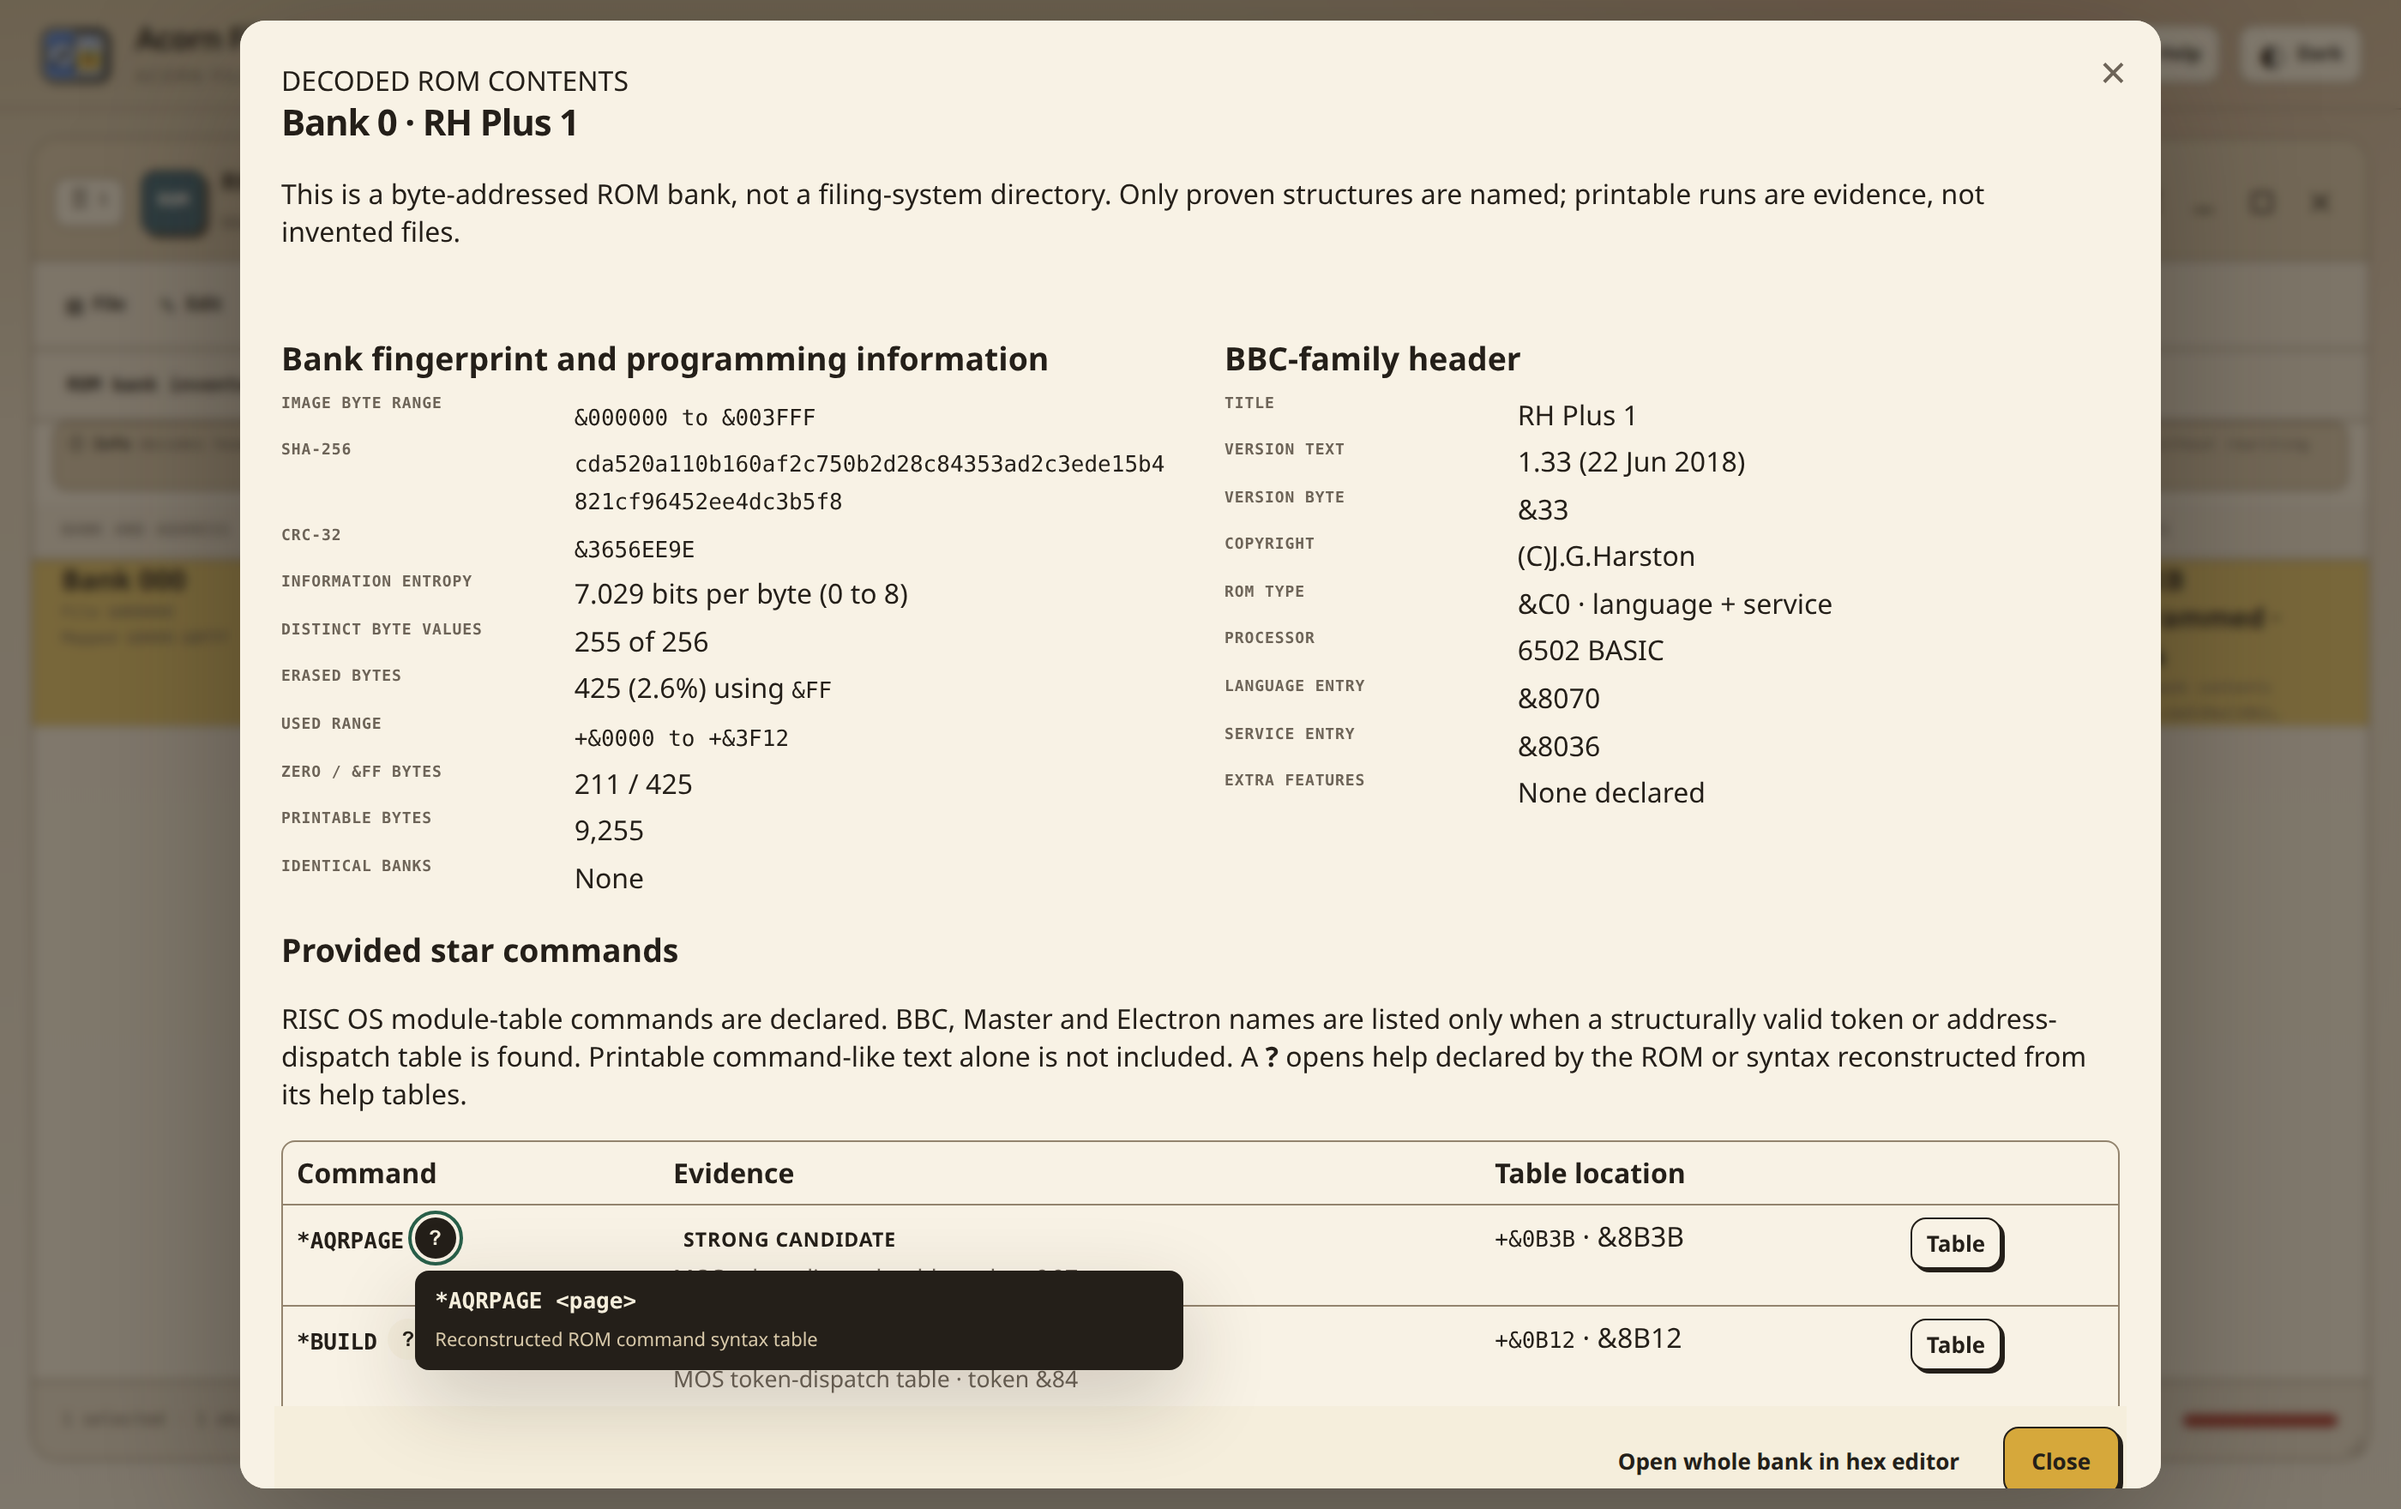
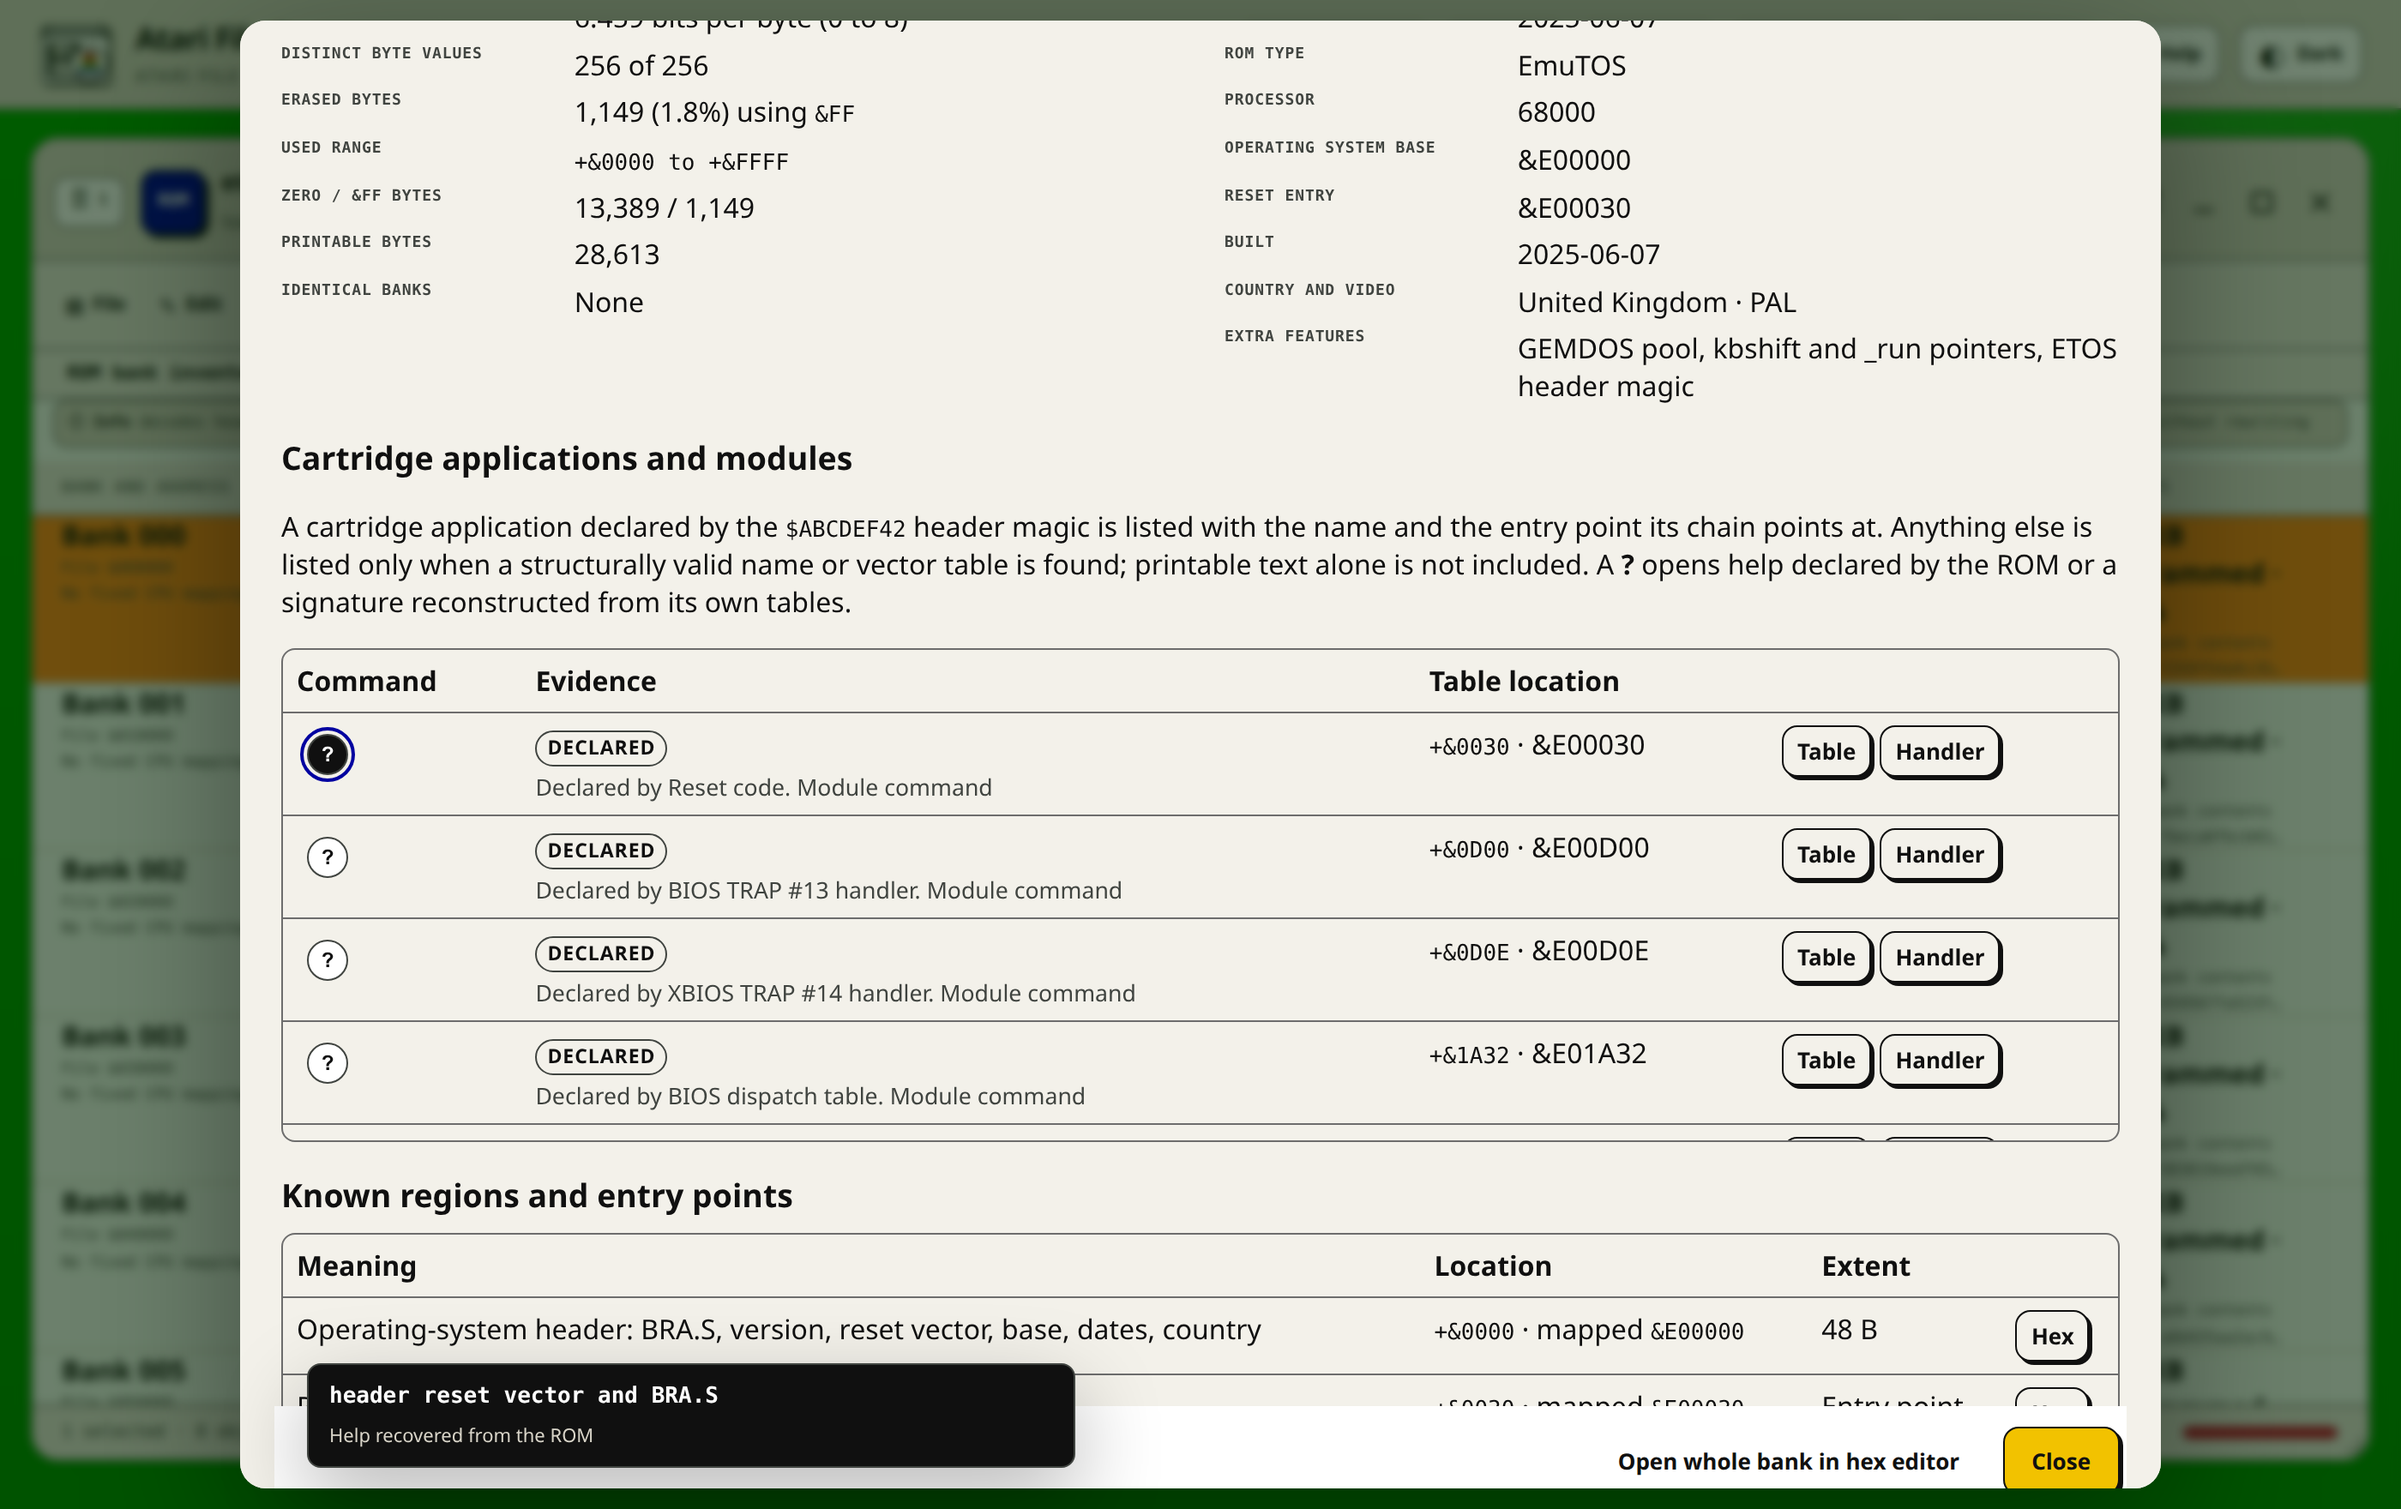
Show the header fields a TOS ROM actually has
The decoded ROM dialog printed "&NAN" for the version and
"&undefined · EmuTOS" for the type. Both rows asked the decoder for
fields it has never produced: a version byte and a type byte, which are
how the previous platform's ROM header was laid out. An Atari records
its release as a 16-bit word at offset 2 and has no type byte at all.

Two more rows, language entry and service entry, named fields that do
not exist either. Those failed quietly instead of loudly, because an
absent field is null and the row printed "Not present", so the dialog
stated as fact something it had never looked for.

In their place are four things a TOS header really does declare: the
operating-system base, the reset entry, the build date and the country
and video standard. On the bundled EmuTOS that now reads &E00000,
&E00030, 2025-06-07 and United Kingdom PAL.

diff --git a/app/static/app.js b/app/static/app.js
@@ -2228,12 +2228,20 @@ async function showRomStructure(index, bankNumber, restoreState = null, { replac
   const headerRows = header ? [
     ["Title", header.title],
     ["Version text", header.version || "Not supplied"],
-    ["Version byte", `&${hex(header.versionByte, 2)}`],
+    // The Atari records its release as a 16-bit word at offset 2, not as a
+    // byte, and there is no type byte anywhere in the header. Asking for
+    // fields the decoder does not produce printed "&NAN" and "&undefined".
+    ["Version word", `&${header.versionHex}`],
     ["Copyright", header.copyright],
-    ["ROM type", `&${header.typeHex} · ${header.roles}`],
+    ["ROM type", header.roles || "Not identified"],
     ["Processor", header.processor],
-    ["Language entry", header.languageEntry == null ? "Not present" : `&${hex(header.languageEntry)}`],
-    ["Service entry", header.serviceEntry == null ? "Not present" : `&${hex(header.serviceEntry)}`],
+    // A TOS header carries no language or service entry; those two rows named
+    // fields the decoder never produced, so both always read "Not present".
+    // These are the pointers the header really does declare.
+    ["Operating system base", header.base == null ? "Not declared" : `&${hex(header.base)}`],
+    ["Reset entry", header.resetEntry == null ? "Not declared" : `&${hex(header.resetEntry)}`],
+    ["Built", header.date || "Not declared"],
+    ["Country and video", [header.country, header.videoStandard].filter(Boolean).join(" · ") || "Not declared"],
     ["Extra features", header.features?.length ? header.features.join(", ") : "None declared"],
   ] : [];
   const structureRows = structures.map(item => `
